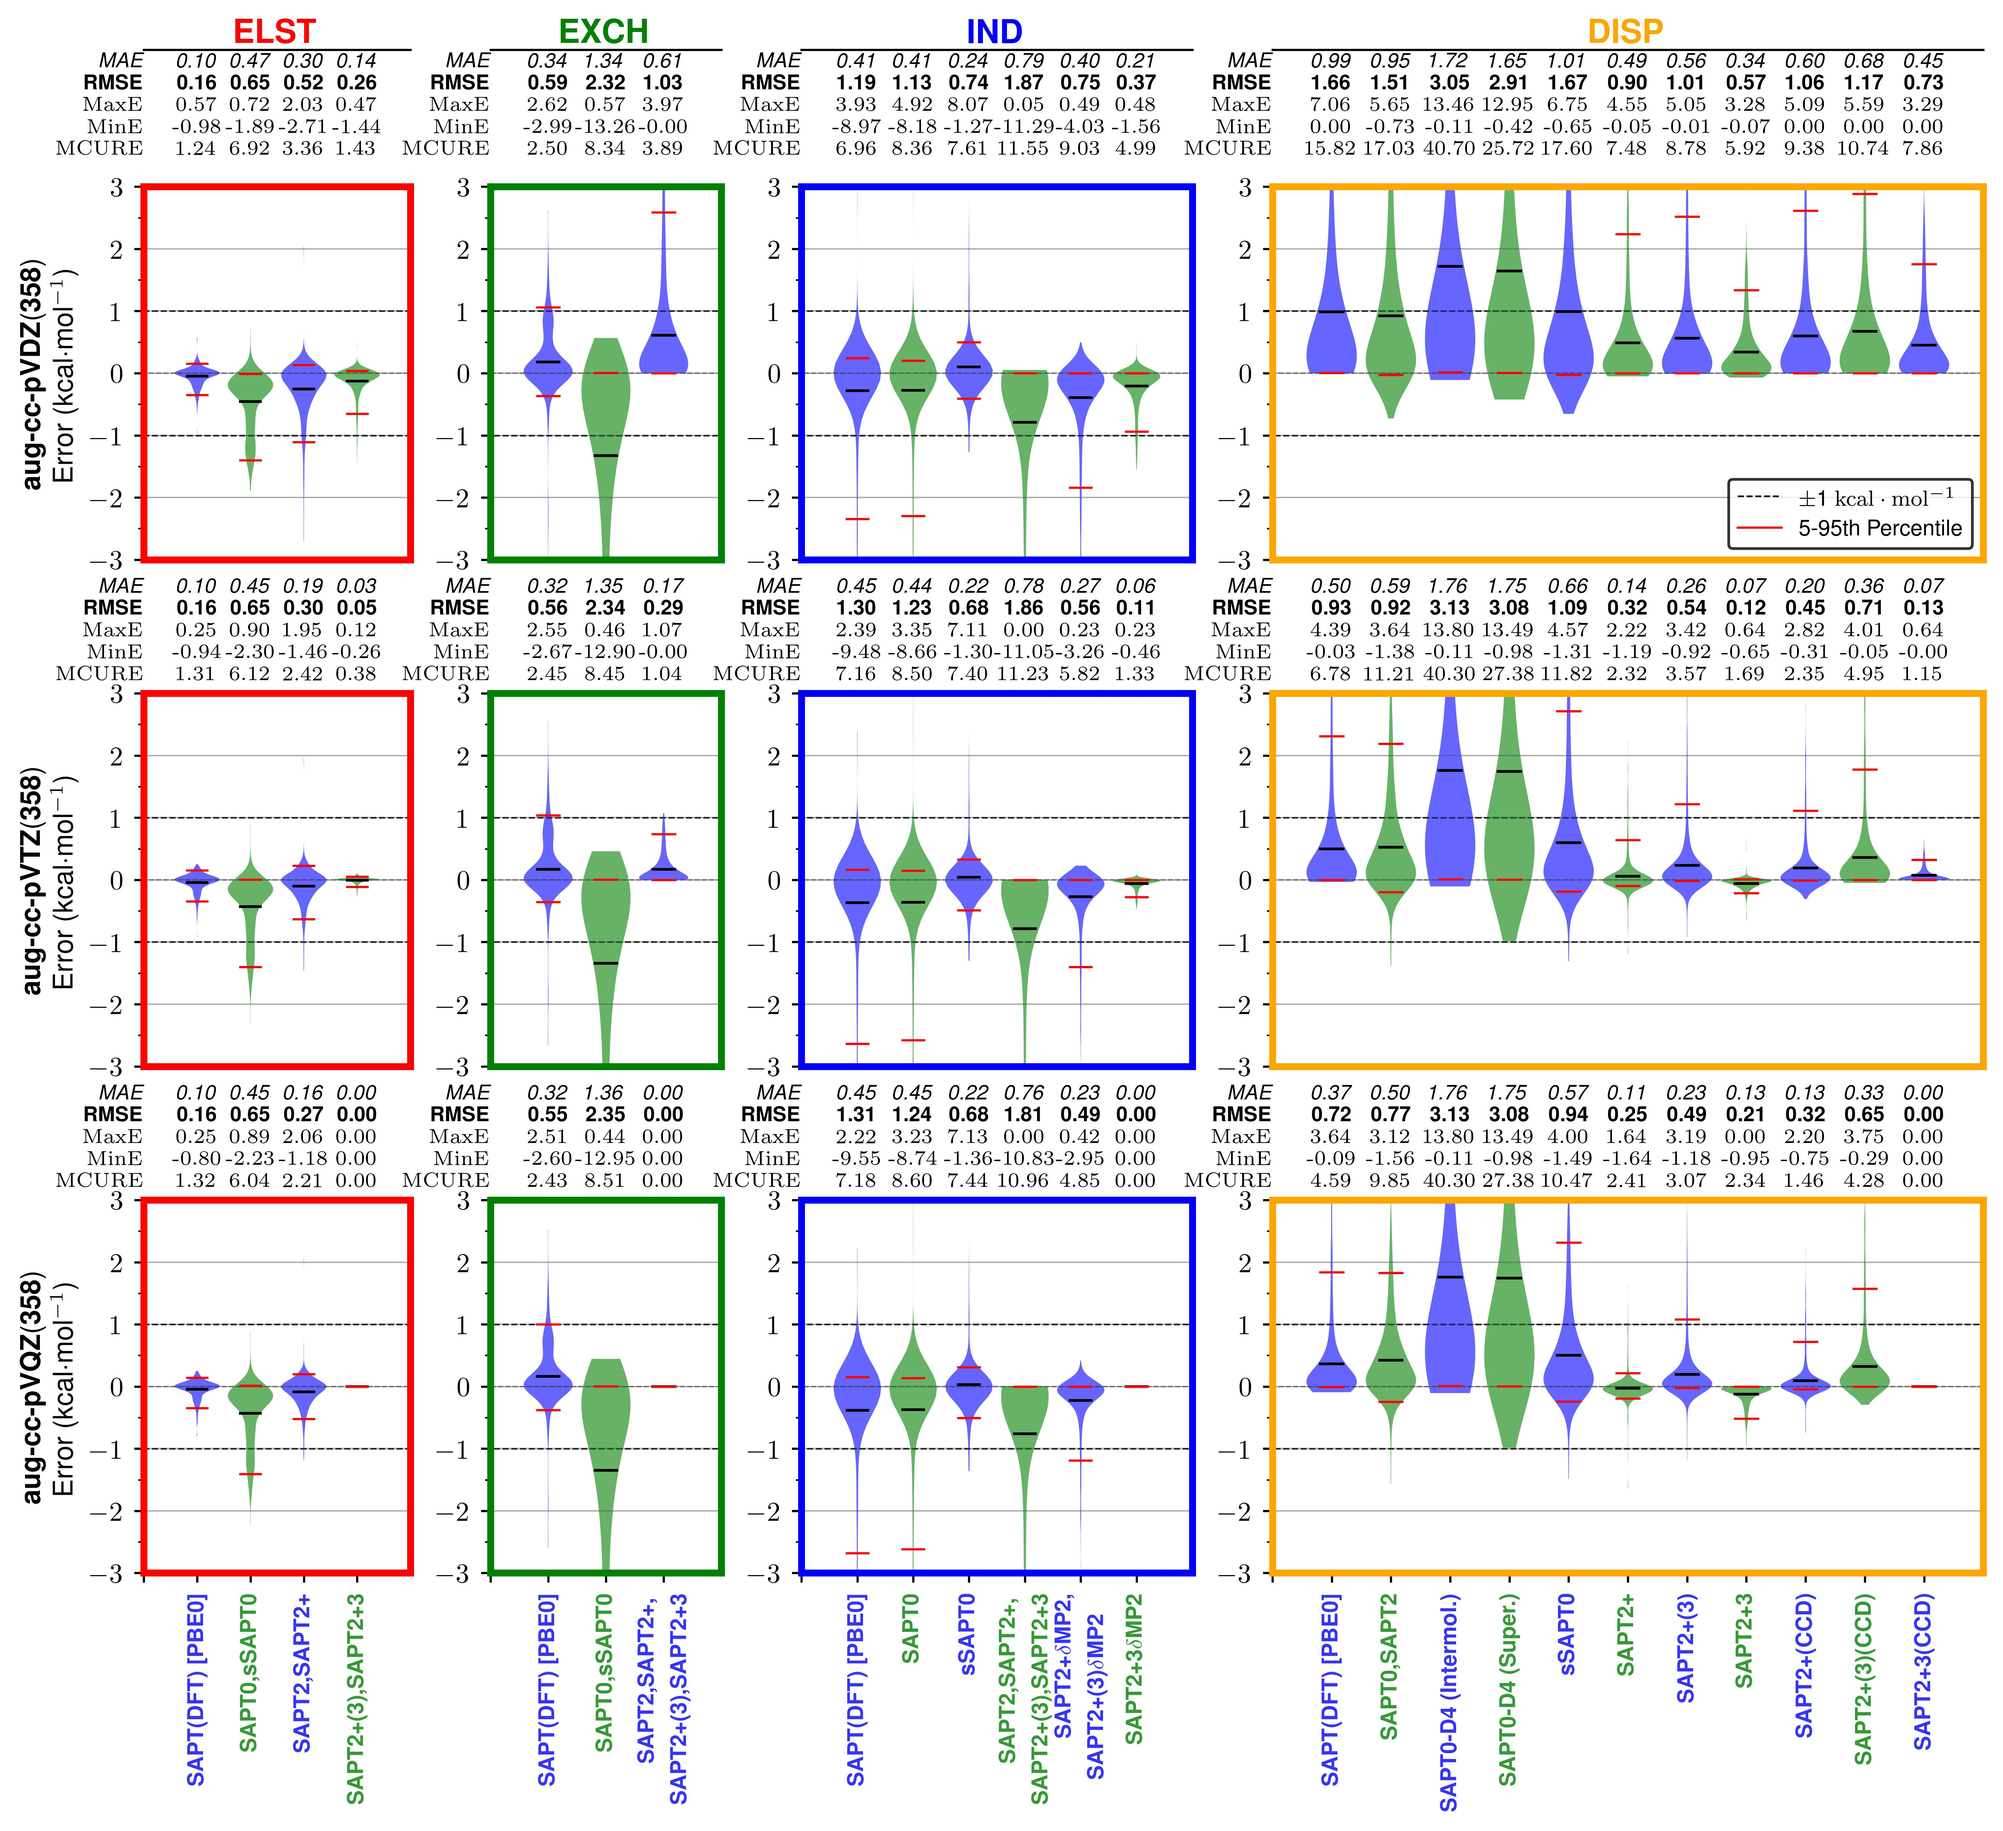
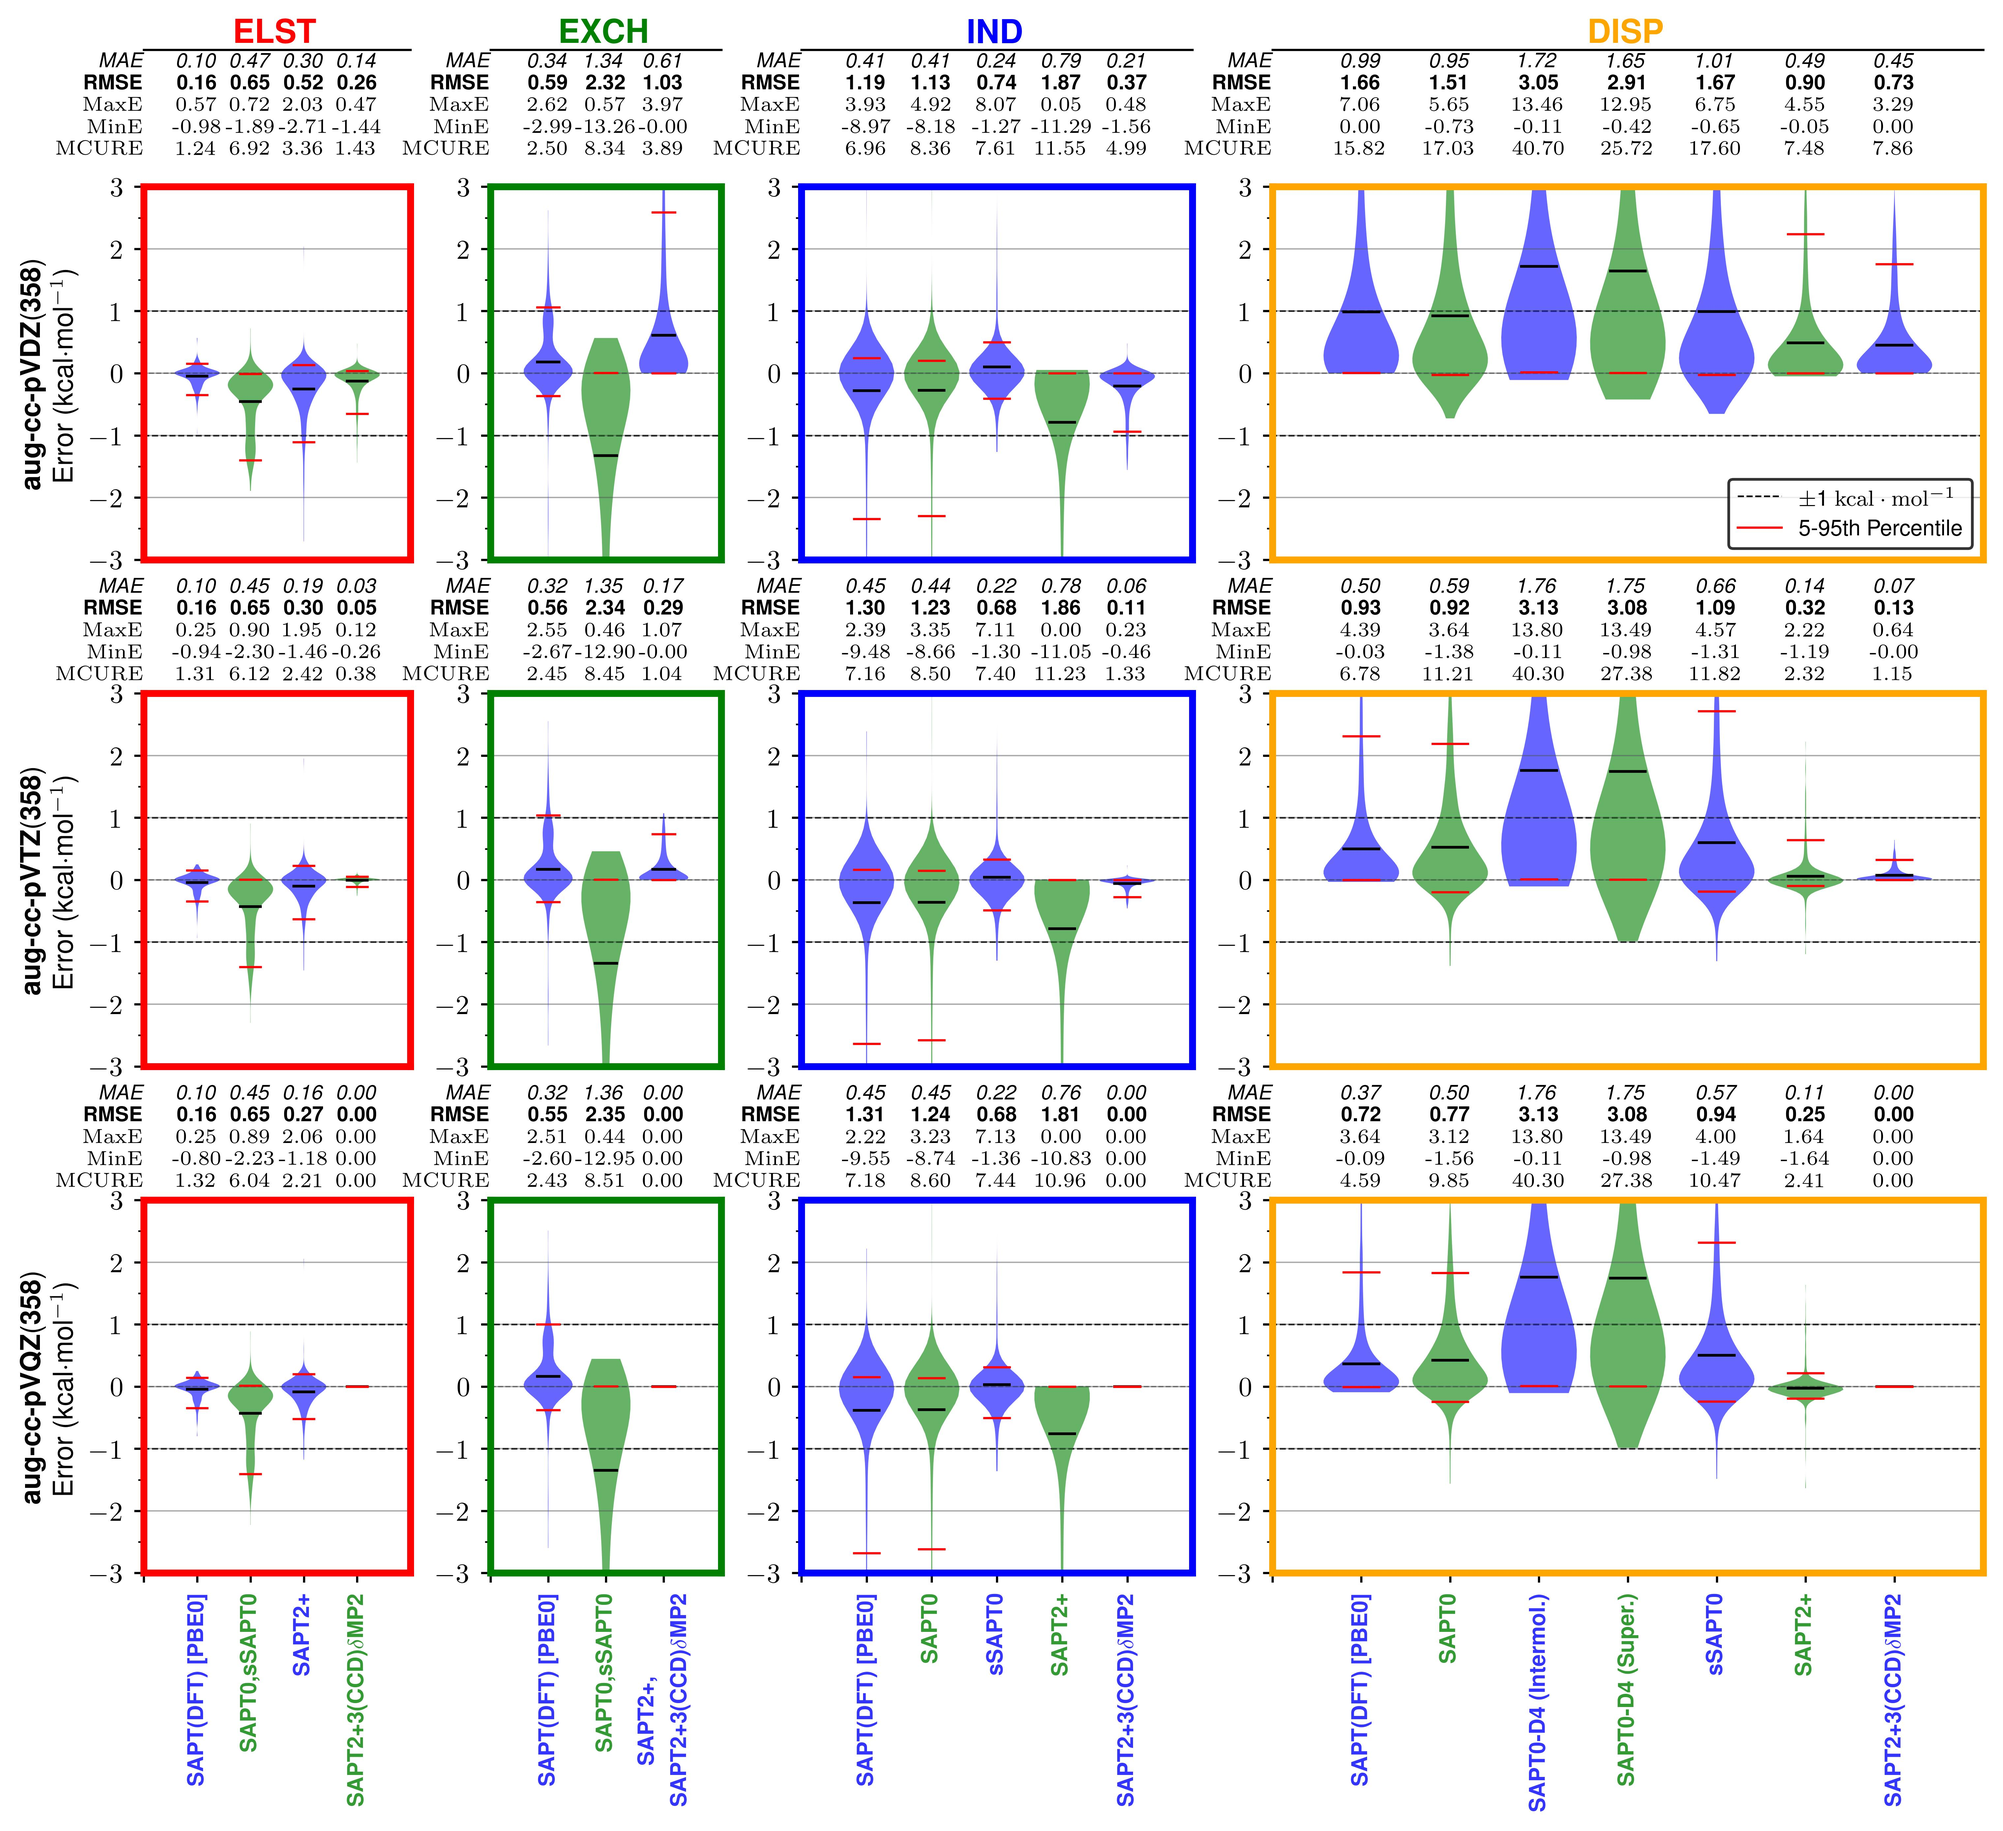
plot updates

diff --git a/src/plotting.py b/src/plotting.py
@@ -4631,10 +4631,10 @@ def violin_plots_multi_components_sapt0d4(df):
             "SAPT0,sSAPT0": "SAPT0 ELST ENERGY Error",
         },
         {
-            "SAPT2,SAPT2+": "SAPT2 ELST ENERGY Error",
+            "SAPT2+": "SAPT2 ELST ENERGY Error",
         },
         {
-            "SAPT2+(3),SAPT2+3": "SAPT2+(3) ELST ENERGY Error",
+            "SAPT2+3(CCD)DMP2": "SAPT2+(3) ELST ENERGY Error",
         },
         {
             "SAPT(DFT) [PBE0]": "SAPT(DFT) [PBE0] ELST ENERGY Error",
@@ -4646,7 +4646,7 @@ def violin_plots_multi_components_sapt0d4(df):
             "SAPT(DFT) [PBE0]": "SAPT(DFT) [PBE0] EXCH ENERGY Error",
         },
         {
-            "SAPT2,SAPT2+,\\\\SAPT2+(3),SAPT2+3": "SAPT2 EXCH ENERGY Error",
+            "SAPT2+,\\\\SAPT2+3(CCD)DMP2": "SAPT2 EXCH ENERGY Error",
         },
         {
             "SAPT0": "SAPT0 IND ENERGY Error",
@@ -4655,19 +4655,16 @@ def violin_plots_multi_components_sapt0d4(df):
             "sSAPT0": "SSAPT0 IND ENERGY Error",
         },
         {
-            "SAPT2,SAPT2+,\\\\SAPT2+(3),SAPT2+3": "SAPT2 IND ENERGY Error",
+            "SAPT2+": "SAPT2 IND ENERGY Error",
         },
         {
-            "SAPT2+DMP2,\\\\SAPT2+(3)DMP2": "SAPT2+DMP2 IND ENERGY Error",
-        },
-        {
-            "SAPT2+3DMP2": "SAPT2+3DMP2 IND ENERGY Error",
+            "SAPT2+3(CCD)DMP2": "SAPT2+3DMP2 IND ENERGY Error",
         },
         {
             "SAPT(DFT) [PBE0]": "SAPT(DFT) [PBE0] IND ENERGY Error",
         },
         {
-            "SAPT0,SAPT2": "SAPT0 DISP ENERGY Error",
+            "SAPT0": "SAPT0 DISP ENERGY Error",
         },
         {
             "sSAPT0": "SSAPT0 DISP ENERGY Error",
@@ -4688,7 +4685,7 @@ def violin_plots_multi_components_sapt0d4(df):
             "SAPT2+(3)(CCD)": "SAPT2+(3)(CCD) DISP ENERGY Error",
         },
         {
-            "SAPT2+3(CCD)": "SAPT2+3(CCD) DISP ENERGY Error",
+            "SAPT2+3(CCD)DMP2": "SAPT2+3(CCD) DISP ENERGY Error",
         },
         {
             "SAPT(DFT) [PBE0]": "SAPT(DFT) [PBE0] DISP ENERGY Error",
@@ -4784,42 +4781,33 @@ def violin_plots_multi_components_sapt0d4(df):
         df_labels_and_columns_elst={
             "SAPT(DFT) [PBE0]": "SAPT(DFT) [PBE0] ELST ENERGY Error",
             "SAPT0,sSAPT0": "SAPT0 ELST ENERGY Error",
-            "SAPT2,SAPT2+": "SAPT2 ELST ENERGY Error",
-            "SAPT2+(3),SAPT2+3": "SAPT2+(3) ELST ENERGY Error",
-            # "SAPT(DFT) [B3LYP]": "SAPT(DFT) [B3LYP] ELST ENERGY Error",
-            # "SAPT(DFT) [B2PLYP]": "SAPT(DFT) [B2PLYP] ELST ENERGY Error",
-            # "SAPT(DFT) [WB97X]": "SAPT(DFT) [WB97X] ELST ENERGY Error",
+            "SAPT2+": "SAPT2 ELST ENERGY Error",
+            "SAPT2+3(CCD)DMP2": "SAPT2+(3) ELST ENERGY Error",
         },
         df_labels_and_columns_exch={
             "SAPT(DFT) [PBE0]": "SAPT(DFT) [PBE0] EXCH ENERGY Error",
             "SAPT0,sSAPT0": "SAPT0 EXCH ENERGY Error",
-            "SAPT2,SAPT2+,\\\\SAPT2+(3),SAPT2+3": "SAPT2 EXCH ENERGY Error",
-            # "SAPT(DFT) [B3LYP]": "SAPT(DFT) [B3LYP] EXCH ENERGY Error",
-            # "SAPT(DFT) [B2PLYP]": "SAPT(DFT) [B2PLYP] EXCH ENERGY Error",
-            # "SAPT(DFT) [WB97X]": "SAPT(DFT) [WB97X] EXCH ENERGY Error",
+            "SAPT2+,\\\\SAPT2+3(CCD)DMP2": "SAPT2 EXCH ENERGY Error",
         },
         df_labels_and_columns_indu={
             "SAPT(DFT) [PBE0]": "SAPT(DFT) [PBE0] IND ENERGY Error",
             "SAPT0": "SAPT0 IND ENERGY Error",
             "sSAPT0": "SSAPT0 IND ENERGY Error",
-            "SAPT2,SAPT2+,\\\\SAPT2+(3),SAPT2+3": "SAPT2 IND ENERGY Error",
-            # should be here but moved for dense plotting...
-            "SAPT2+DMP2,\\\\SAPT2+(3)DMP2": "SAPT2+DMP2 IND ENERGY Error",
-            "SAPT2+3DMP2": "SAPT2+3DMP2 IND ENERGY Error",
-            # "SAPT2+DMP2,\\\\SAPT2+(3)DMP2": "SAPT2+DMP2 IND ENERGY Error",
+            "SAPT2+": "SAPT2 IND ENERGY Error",
+            "SAPT2+3(CCD)DMP2": "SAPT2+3DMP2 IND ENERGY Error",
         },
         df_labels_and_columns_disp={
             "SAPT(DFT) [PBE0]": "SAPT(DFT) [PBE0] DISP ENERGY Error",
-            "SAPT0,SAPT2": "SAPT0 DISP ENERGY Error",
+            "SAPT0": "SAPT0 DISP ENERGY Error",
             "SAPT0-D4 (Intermol.)": "SAPT0-D4 (Intermol.) DISP ENERGY Error",
             "SAPT0-D4 (Super.)": "SAPT0-D4 (Super.) DISP ENERGY Error",
             "sSAPT0": "SSAPT0 DISP ENERGY Error",
             "SAPT2+": "SAPT2+ DISP ENERGY Error",
-            "SAPT2+(3)": "SAPT2+(3) DISP ENERGY Error",
-            "SAPT2+3": "SAPT2+3 DISP ENERGY Error",
-            "SAPT2+(CCD)": "SAPT2+(CCD) DISP ENERGY Error",
-            "SAPT2+(3)(CCD)": "SAPT2+(3)(CCD) DISP ENERGY Error",
-            "SAPT2+3(CCD)": "SAPT2+3(CCD) DISP ENERGY Error",
+            # "SAPT2+(3)": "SAPT2+(3) DISP ENERGY Error",
+            # "SAPT2+3": "SAPT2+3 DISP ENERGY Error",
+            # "SAPT2+(CCD)": "SAPT2+(CCD) DISP ENERGY Error",
+            # "SAPT2+(3)(CCD)": "SAPT2+(3)(CCD) DISP ENERGY Error",
+            "SAPT2+3(CCD)DMP2": "SAPT2+3(CCD) DISP ENERGY Error",
         },
         output_filename=f"./plots/basis_set_components_LoS.jpg",
         table_fontsize=8,
@@ -4957,10 +4945,10 @@ def violin_plots_multi_components_subset_sapt0d4(df):
             "SAPT0,sSAPT0": "SAPT0 ELST ENERGY Error",
         },
         {
-            "SAPT2,SAPT2+": "SAPT2 ELST ENERGY Error",
+            "SAPT2+": "SAPT2 ELST ENERGY Error",
         },
         {
-            "SAPT2+(3),SAPT2+3": "SAPT2+(3) ELST ENERGY Error",
+            "SAPT2+3(CCD)DMP2": "SAPT2+(3) ELST ENERGY Error",
         },
         {
             "SAPT(DFT) [PBE0]": "SAPT(DFT) [PBE0] ELST ENERGY Error",
@@ -4972,7 +4960,7 @@ def violin_plots_multi_components_subset_sapt0d4(df):
             "SAPT(DFT) [PBE0]": "SAPT(DFT) [PBE0] EXCH ENERGY Error",
         },
         {
-            "SAPT2,SAPT2+,\\\\SAPT2+(3),SAPT2+3": "SAPT2 EXCH ENERGY Error",
+            "SAPT2+,\\\\SAPT2+3(CCD)DMP2": "SAPT2 EXCH ENERGY Error",
         },
         {
             "SAPT0": "SAPT0 IND ENERGY Error",
@@ -4981,19 +4969,16 @@ def violin_plots_multi_components_subset_sapt0d4(df):
             "sSAPT0": "SSAPT0 IND ENERGY Error",
         },
         {
-            "SAPT2,SAPT2+,\\\\SAPT2+(3),SAPT2+3": "SAPT2 IND ENERGY Error",
+            "SAPT2+": "SAPT2 IND ENERGY Error",
         },
         {
-            "SAPT2+DMP2,\\\\SAPT2+(3)DMP2": "SAPT2+DMP2 IND ENERGY Error",
-        },
-        {
-            "SAPT2+3DMP2": "SAPT2+3DMP2 IND ENERGY Error",
+            "SAPT2+3(CCD)DMP2": "SAPT2+3DMP2 IND ENERGY Error",
         },
         {
             "SAPT(DFT) [PBE0]": "SAPT(DFT) [PBE0] IND ENERGY Error",
         },
         {
-            "SAPT0,SAPT2": "SAPT0 DISP ENERGY Error",
+            "SAPT0": "SAPT0 DISP ENERGY Error",
         },
         {
             "sSAPT0": "SSAPT0 DISP ENERGY Error",
@@ -5014,7 +4999,7 @@ def violin_plots_multi_components_subset_sapt0d4(df):
             "SAPT2+(3)(CCD)": "SAPT2+(3)(CCD) DISP ENERGY Error",
         },
         {
-            "SAPT2+3(CCD)": "SAPT2+3(CCD) DISP ENERGY Error",
+            "SAPT2+3(CCD)DMP2": "SAPT2+3(CCD) DISP ENERGY Error",
         },
         {
             "SAPT(DFT) [PBE0]": "SAPT(DFT) [PBE0] DISP ENERGY Error",
@@ -5110,42 +5095,33 @@ def violin_plots_multi_components_subset_sapt0d4(df):
         df_labels_and_columns_elst={
             "SAPT(DFT) [PBE0]": "SAPT(DFT) [PBE0] ELST ENERGY Error",
             "SAPT0,sSAPT0": "SAPT0 ELST ENERGY Error",
-            "SAPT2,SAPT2+": "SAPT2 ELST ENERGY Error",
-            "SAPT2+(3),SAPT2+3": "SAPT2+(3) ELST ENERGY Error",
-            # "SAPT(DFT) [B3LYP]": "SAPT(DFT) [B3LYP] ELST ENERGY Error",
-            # "SAPT(DFT) [B2PLYP]": "SAPT(DFT) [B2PLYP] ELST ENERGY Error",
-            # "SAPT(DFT) [WB97X]": "SAPT(DFT) [WB97X] ELST ENERGY Error",
+            "SAPT2+": "SAPT2 ELST ENERGY Error",
+            "SAPT2+3(CCD)DMP2": "SAPT2+(3) ELST ENERGY Error",
         },
         df_labels_and_columns_exch={
             "SAPT(DFT) [PBE0]": "SAPT(DFT) [PBE0] EXCH ENERGY Error",
             "SAPT0,sSAPT0": "SAPT0 EXCH ENERGY Error",
-            "SAPT2,SAPT2+,\\\\SAPT2+(3),SAPT2+3": "SAPT2 EXCH ENERGY Error",
-            # "SAPT(DFT) [B3LYP]": "SAPT(DFT) [B3LYP] EXCH ENERGY Error",
-            # "SAPT(DFT) [B2PLYP]": "SAPT(DFT) [B2PLYP] EXCH ENERGY Error",
-            # "SAPT(DFT) [WB97X]": "SAPT(DFT) [WB97X] EXCH ENERGY Error",
+            "SAPT2+,\\\\SAPT2+3(CCD)DMP2": "SAPT2 EXCH ENERGY Error",
         },
         df_labels_and_columns_indu={
             "SAPT(DFT) [PBE0]": "SAPT(DFT) [PBE0] IND ENERGY Error",
             "SAPT0": "SAPT0 IND ENERGY Error",
             "sSAPT0": "SSAPT0 IND ENERGY Error",
-            "SAPT2,SAPT2+,\\\\SAPT2+(3),SAPT2+3": "SAPT2 IND ENERGY Error",
-            # should be here but moved for dense plotting...
-            "SAPT2+DMP2,\\\\SAPT2+(3)DMP2": "SAPT2+DMP2 IND ENERGY Error",
-            "SAPT2+3DMP2": "SAPT2+3DMP2 IND ENERGY Error",
-            # "SAPT2+DMP2,\\\\SAPT2+(3)DMP2": "SAPT2+DMP2 IND ENERGY Error",
+            "SAPT2+": "SAPT2 IND ENERGY Error",
+            "SAPT2+3(CCD)DMP2": "SAPT2+3DMP2 IND ENERGY Error",
         },
         df_labels_and_columns_disp={
             "SAPT(DFT) [PBE0]": "SAPT(DFT) [PBE0] DISP ENERGY Error",
-            "SAPT0,SAPT2": "SAPT0 DISP ENERGY Error",
+            "SAPT0": "SAPT0 DISP ENERGY Error",
             "SAPT0-D4 (Intermol.)": "SAPT0-D4 (Intermol.) DISP ENERGY Error",
             "SAPT0-D4 (Super.)": "SAPT0-D4 (Super.) DISP ENERGY Error",
             "sSAPT0": "SSAPT0 DISP ENERGY Error",
             "SAPT2+": "SAPT2+ DISP ENERGY Error",
-            "SAPT2+(3)": "SAPT2+(3) DISP ENERGY Error",
-            "SAPT2+3": "SAPT2+3 DISP ENERGY Error",
-            "SAPT2+(CCD)": "SAPT2+(CCD) DISP ENERGY Error",
-            "SAPT2+(3)(CCD)": "SAPT2+(3)(CCD) DISP ENERGY Error",
-            "SAPT2+3(CCD)": "SAPT2+3(CCD) DISP ENERGY Error",
+            # "SAPT2+(3)": "SAPT2+(3) DISP ENERGY Error",
+            # "SAPT2+3": "SAPT2+3 DISP ENERGY Error",
+            # "SAPT2+(CCD)": "SAPT2+(CCD) DISP ENERGY Error",
+            # "SAPT2+(3)(CCD)": "SAPT2+(3)(CCD) DISP ENERGY Error",
+            "SAPT2+3(CCD)DMP2": "SAPT2+3(CCD) DISP ENERGY Error",
         },
         output_filename=f"./plots/basis_set_components_LoS_subset.jpg",
         table_fontsize=7.5,

diff --git a/plot_saptdft.py b/plot_saptdft.py
@@ -40,8 +40,8 @@ def main():
         original_plot=False,
     )
     # return
-    # src.plotting.plot_components_sapt0_saptdft(df)
-    # return
+    src.plotting.plot_components_sapt0_saptdft(df)
+    return
     src.plotting.plot_LoS_saptdft(df)
     return
 
